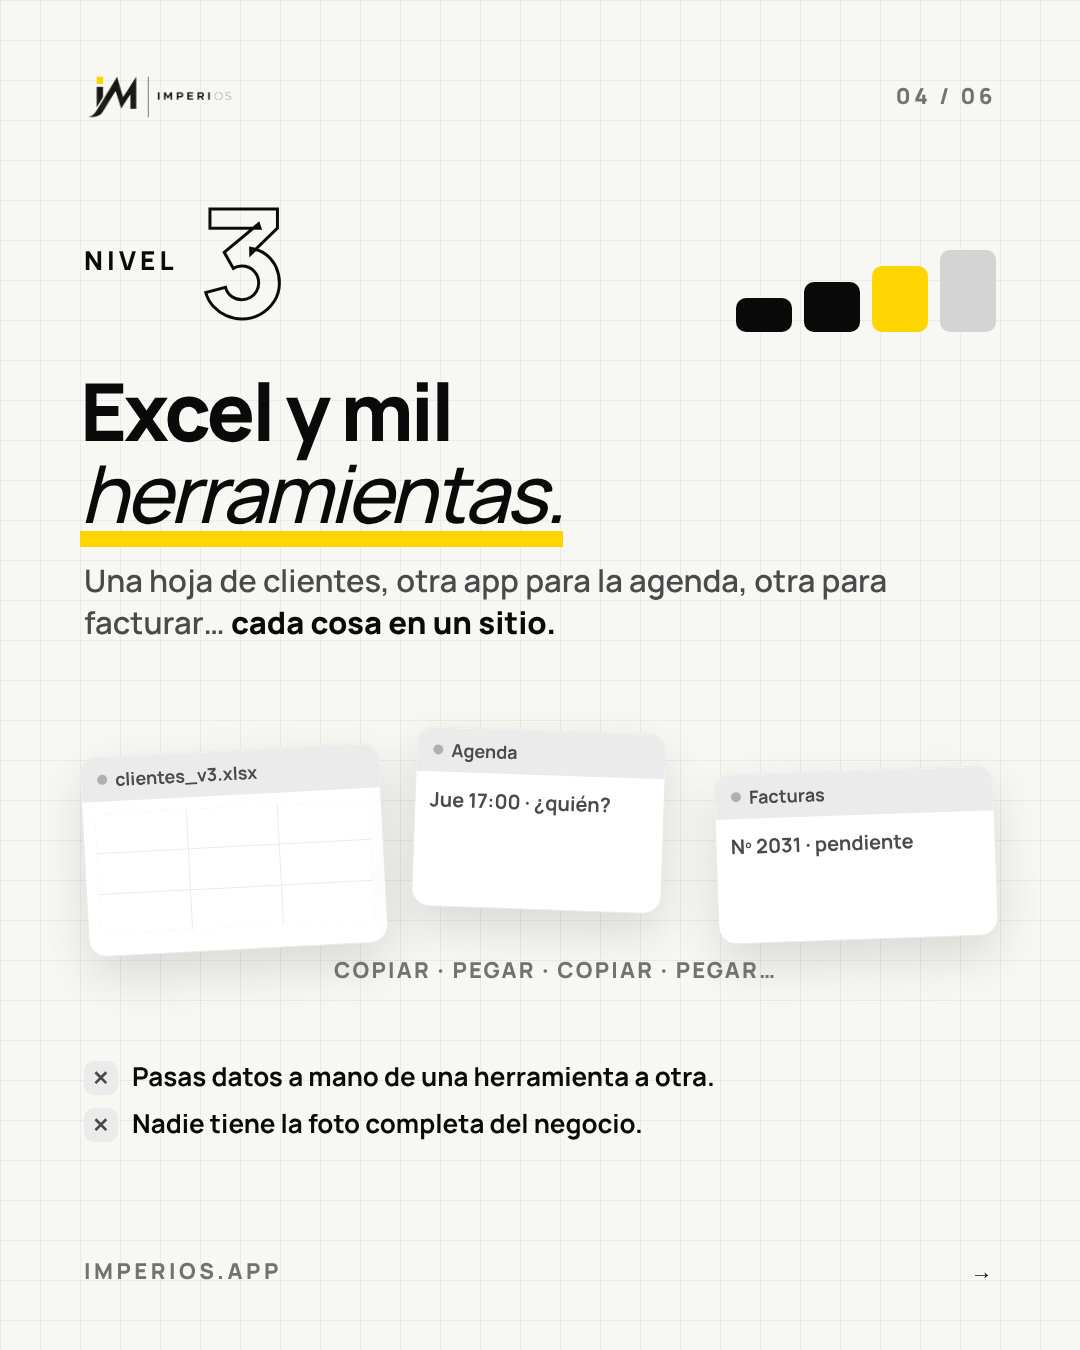
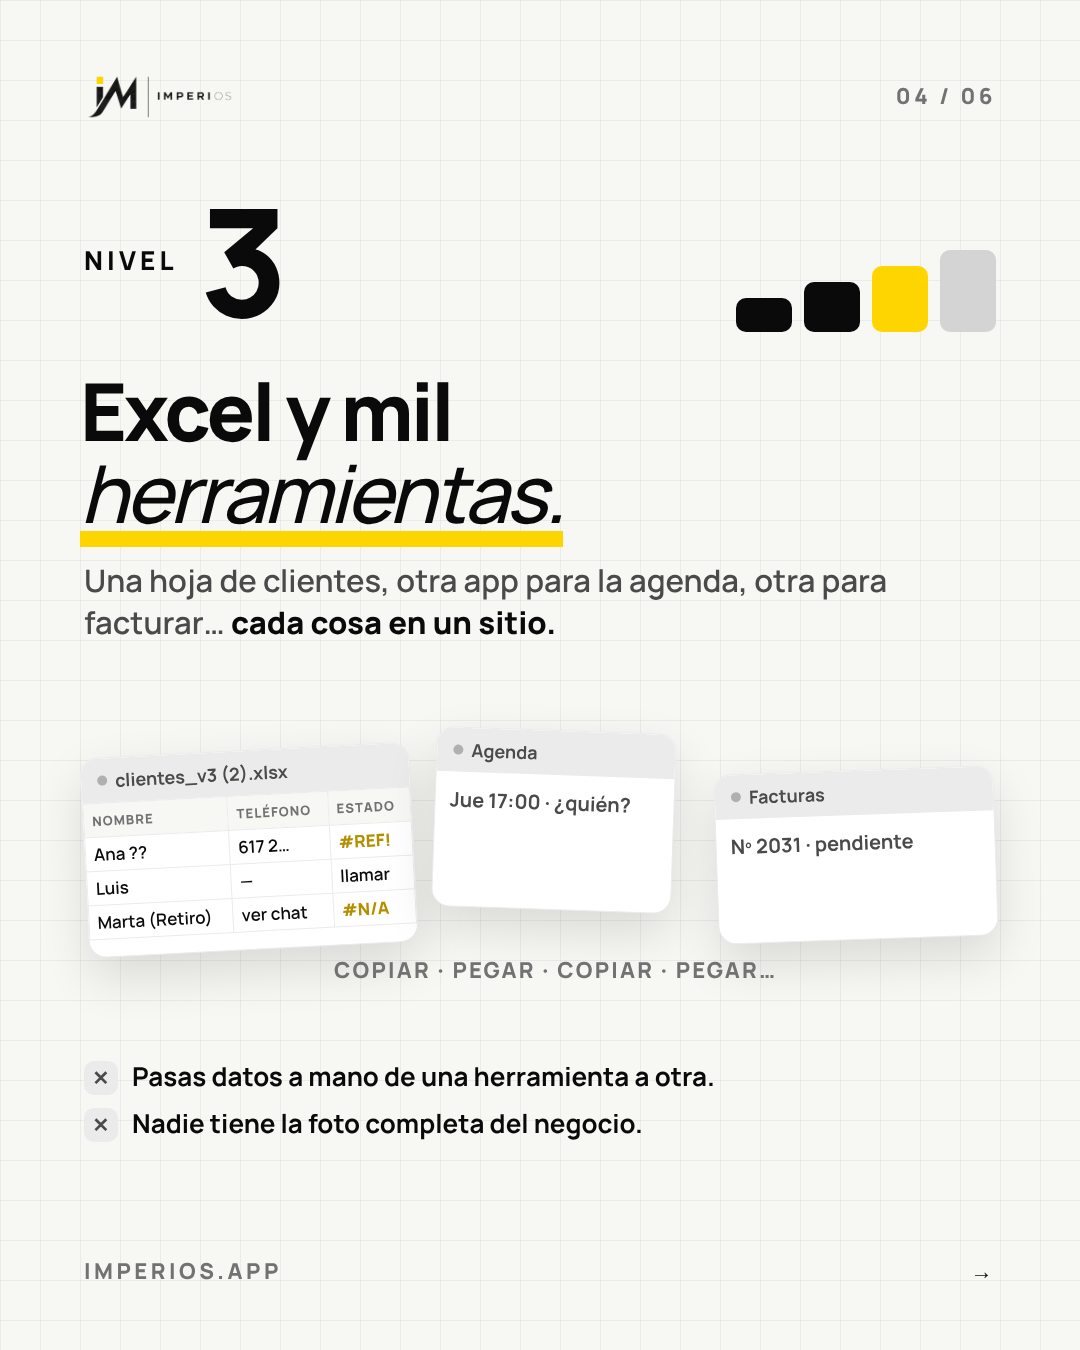
Carrusel niveles: números en relleno y hoja de cálculo real en el nivel 3
Claude-Session: https://claude.ai/code/session_01GUwAx98LwDLChJJ4cX9B1a

diff --git a/ADV/ImperiOS Ad/preview/src/carrusel-niveles.html b/ADV/ImperiOS Ad/preview/src/carrusel-niveles.html
@@ -41,8 +41,12 @@ body.dark p.body { color: var(--ink-500); } body.dark p.body b { color: #fff; }
 .steps i.done { background: var(--ink-950); }
 body.dark .steps i { background: var(--ink-800); } body.dark .steps i.done { background: var(--ink-600); } body.dark .steps i.on { background: var(--y); }
 .nv { display: flex; align-items: center; gap: 22px; }
-.nv b { font-weight: 800; font-size: 150px; letter-spacing: -.06em; line-height: .8; color: transparent; -webkit-text-stroke: 3px var(--ink-950); }
-body.dark .nv b { -webkit-text-stroke-color: var(--y); }
+.nv b { font-weight: 800; font-size: 150px; letter-spacing: -.06em; line-height: .8; color: var(--ink-950); }
+body.dark .nv b { color: var(--y); }
+.xl { width: 100%; border-collapse: collapse; font-size: 17px; font-weight: 600; }
+.xl td { border: 1px solid var(--ink-200); height: 34px; padding: 0 8px; white-space: nowrap; overflow: hidden; }
+.xl td.h { background: var(--ink-100); color: var(--ink-600); font-weight: 800; font-size: 13px; letter-spacing: .08em; }
+.xl td.e { color: #B38F00; font-weight: 800; }
 .nv span { font-weight: 800; font-size: 26px; letter-spacing: .16em; }
 .sig { left: 84px; right: 84px; display: flex; flex-direction: column; gap: 12px; }
 .sig div { display: flex; align-items: flex-start; gap: 14px; font-weight: 700; font-size: 26px; line-height: 1.3; }
@@ -121,9 +125,9 @@ body.dark .nv b { -webkit-text-stroke-color: var(--y); }
   <h2 class="abs" style="left:80px;right:60px;top:370px">Excel y mil<br><em class="ul">herramientas.</em></h2>
   <p class="abs body" style="left:84px;right:110px;top:560px">Una hoja de clientes, otra app para la agenda, otra para facturar… <b>cada cosa en un sitio.</b></p>
   <div class="abs" style="left:84px;right:84px;top:740px;height:290px">
-    <div class="win" style="left:0;top:10px;width:300px;height:200px;transform:rotate(-3deg)"><div class="t"><i></i>clientes_v3.xlsx</div>
-      <div style="display:grid;grid-template-columns:repeat(3,1fr);gap:1px;background:var(--ink-200);margin:12px;height:120px">${'<span style="background:#fff"></span>'.repeat(9)}</div></div>
-    <div class="win" style="left:330px;top:-10px;width:250px;height:180px;transform:rotate(2deg)"><div class="t"><i></i>Agenda</div><div style="padding:14px;font-weight:700;font-size:20px;color:var(--ink-700)">Jue 17:00 · ¿quién?</div></div>
+    <div class="win" style="left:0;top:10px;width:330px;height:200px;transform:rotate(-3deg)"><div class="t"><i></i>clientes_v3 (2).xlsx</div>
+      <table class="xl"><tr><td class="h">NOMBRE</td><td class="h">TELÉFONO</td><td class="h">ESTADO</td></tr><tr><td>Ana ??</td><td>617 2…</td><td class="e">#REF!</td></tr><tr><td>Luis</td><td>—</td><td>llamar</td></tr><tr><td>Marta (Retiro)</td><td>ver chat</td><td class="e">#N/A</td></tr></table></div>
+    <div class="win" style="left:350px;top:-10px;width:240px;height:180px;transform:rotate(2deg)"><div class="t"><i></i>Agenda</div><div style="padding:14px;font-weight:700;font-size:20px;color:var(--ink-700)">Jue 17:00 · ¿quién?</div></div>
     <div class="win" style="right:0;top:30px;width:280px;height:170px;transform:rotate(-2deg)"><div class="t"><i></i>Facturas</div><div style="padding:14px;font-weight:700;font-size:20px;color:var(--ink-700)">Nº 2031 · pendiente</div></div>
     <div class="abs" style="left:250px;top:215px;font-weight:800;font-size:22px;letter-spacing:.1em;color:var(--ink-600)">COPIAR · PEGAR · COPIAR · PEGAR…</div>
   </div>
@@ -178,7 +182,6 @@ document.getElementById('coverSteps').innerHTML = NAMES.map((n, i) => `<div styl
 document.getElementById('pick').innerHTML = [1, 2, 3, 4].map(i => `<span style="width:200px;height:200px;border-radius:40px;display:grid;place-items:center;font-weight:800;font-size:110px;letter-spacing:-.05em;
   border:4px solid var(--ink-950);${i === 4 ? 'background:var(--ink-950);color:var(--y)' : ''}">${i}</span>`).join('');
 // la cuadrícula del Excel del nivel 3 (el HTML no interpola)
-document.querySelectorAll('.win div[style*="grid-template-columns:repeat(3"]').forEach(g => g.innerHTML = '<span style="background:#fff"></span>'.repeat(9));
 const n = +(location.hash.slice(1) || 1), sl = document.querySelector(`.slide[data-n="${n}"]`);
 sl.classList.add('on'); if (sl.dataset.dark) document.body.classList.add('dark');
 window.ready = document.fonts.ready.then(() => Promise.all([...document.images].map(i => i.complete ? 0 : new Promise(r => i.onload = r))));
